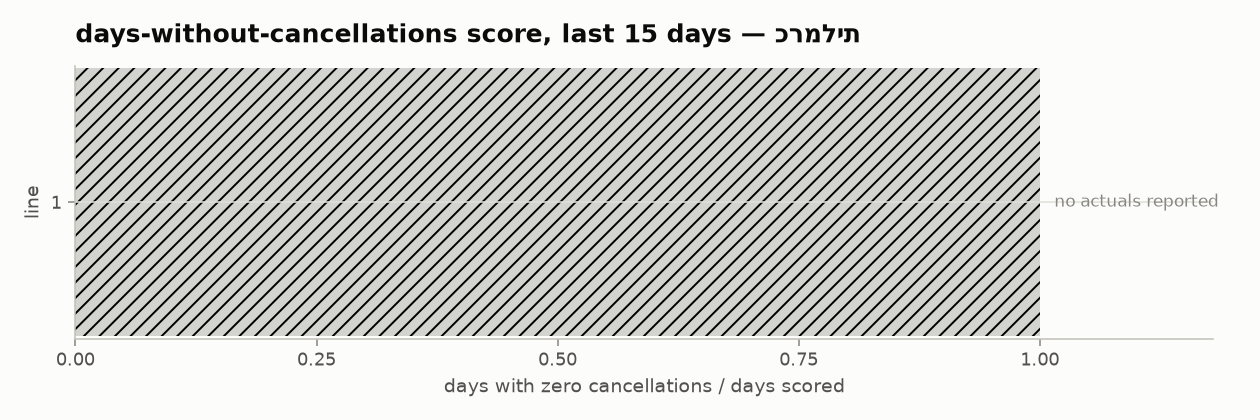
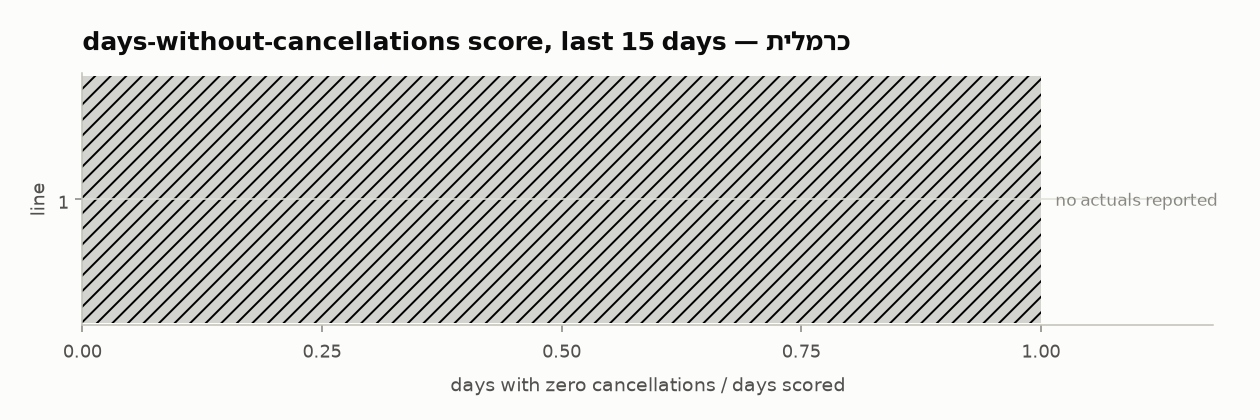
Fix Hebrew rendering on all Matplotlib images using Noto Sans Hebrew and logical order
1. Hebrew Font Selection:
   - Configured Matplotlib in 'openbus_hack/theme.py' to prioritize 'Noto Sans Hebrew', which is installed in the container and contains perfect glyph tables, resolving the 'tofu box' and missing symbol errors.

2. Bidi & Bidirectional Logic:
   - Simplified the '_rtl' text-reversal function in 'orion/days_with_no_cancellations.py' to return logical text untouched. Modern matplotlib (>= 3.11) uses HarfBuzz to perform native bidirectional layout. Manual text-reversal was reversing the text twice, resulting in backwards/garbled labels.

3. Re-generated All Operator Plots:
   - Re-ran the CLI to re-generate clean, beautifully aligned operator score plots on disk with correct Hebrew rendering.

diff --git a/orion/days_with_no_cancellations.py b/orion/days_with_no_cancellations.py
@@ -266,16 +266,9 @@ _RUN = re.compile(r"[0-9A-Za-z]+|[^0-9A-Za-z]+")
 
 
 def _rtl(text: str) -> str:
-    """matplotlib has no bidi engine — lay Hebrew out right-to-left by hand.
-
-    Runs are emitted in reverse order, but digit/latin runs keep their own
-    direction: line "28א" must display as "א28", not "א82".
-    """
-    if not any("֐" <= c <= "׿" for c in text):
-        return text
-    runs = _RUN.findall(text)
-    return "".join(r if r[0].isascii() and r[0].isalnum() else r[::-1]
-                   for r in reversed(runs))
+    """Since modern matplotlib (>= 3.11) has native bidi and HarfBuzz support,
+    we do not reorder or reverse the text, as doing so would garble the characters."""
+    return text
 
 
 def _score_color(score: float) -> str:

diff --git a/openbus_hack/theme.py b/openbus_hack/theme.py
@@ -73,7 +73,7 @@ def use_openbus_style(mode: Literal["light", "dark"] = "light") -> None:
         "savefig.facecolor": c["surface"],
         "figure.figsize": (8, 4.5),
         "figure.dpi": 110,
-        "font.family": ["DejaVu Sans"],  # has Hebrew glyphs; agency names are Hebrew
+        "font.family": ["Noto Sans Hebrew", "DejaVu Sans"],  # has Hebrew glyphs; agency names are Hebrew
         "font.size": 11,
         "axes.prop_cycle": cycler(color=palette),
         "axes.edgecolor": c["axis"],
